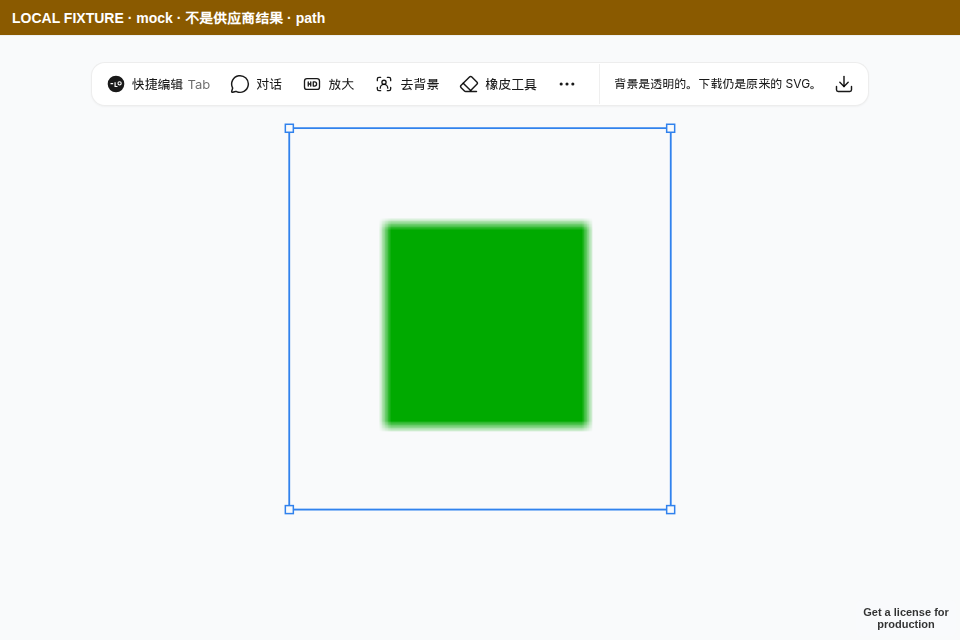
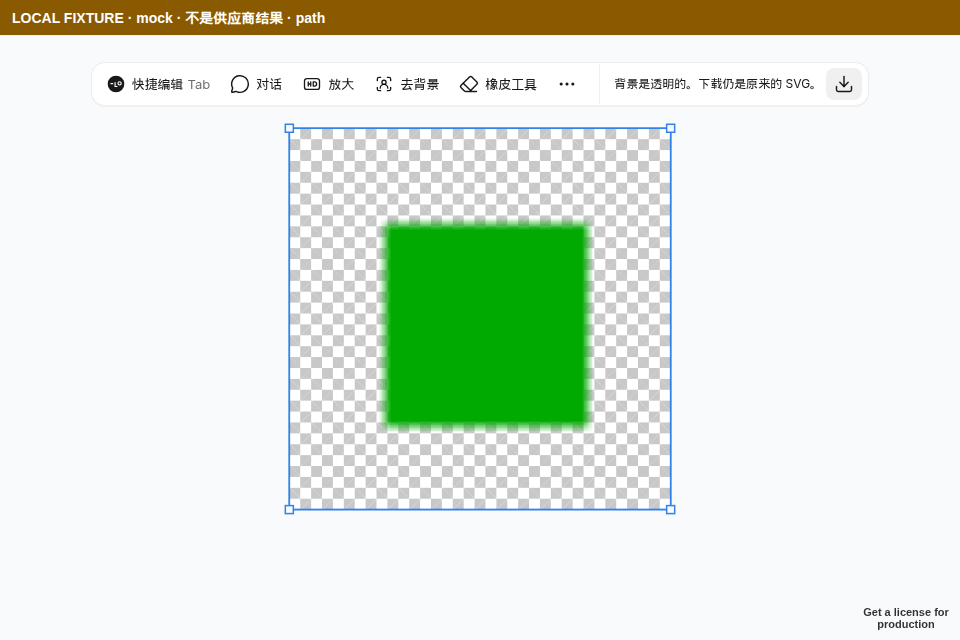
fix(#826): show SVG failure placeholder and a display-only checker
The failed canvas no longer paints the gray block with a black corner.
Transparent previews sit on a checkerboard that is not written into the
original SVG download.

Changed region(s): [[0.2812, 0.1875, 0.7188, 0.8125]]

diff --git a/src/shapes/SvgImageShape.tsx b/src/shapes/SvgImageShape.tsx
@@ -1,0 +1,45 @@
+import { HTMLContainer, ImageShapeUtil, type TLImageShape } from 'tldraw'
+
+import { t } from '../i18n'
+
+function svgMeta(asset: { meta?: Record<string, unknown> } | null | undefined) {
+  const meta = asset?.meta
+  return {
+    state: typeof meta?.svgState === 'string' ? meta.svgState : '',
+    message: typeof meta?.svgMessage === 'string' ? meta.svgMessage : '',
+  }
+}
+
+/** Canvas face for an admitted SVG. The download stays the original file. */
+export class ComfyImageShapeUtil extends ImageShapeUtil {
+  override component(shape: TLImageShape) {
+    const asset = shape.props.assetId ? this.editor.getAsset(shape.props.assetId) : null
+    const { state, message } = svgMeta(asset)
+    if (state === 'preview_failed') {
+      return (
+        <HTMLContainer
+          id={shape.id}
+          className="ca-svg-fail"
+          data-testid="svg-preview-failed"
+          style={{ width: shape.props.w, height: shape.props.h, overflow: 'hidden' }}
+        >
+          <div className="ca-svg-fail__body">
+            <svg className="ca-svg-fail__icon" viewBox="0 0 24 24" aria-hidden="true">
+              <rect x="3.5" y="5" width="17" height="14" rx="2" fill="none" stroke="currentColor" strokeWidth="1.6" />
+              <path d="M7 15.5l3.2-3.2 2.3 2.3 2-2L18 16" fill="none" stroke="currentColor" strokeWidth="1.6" />
+              <path d="M5 5l14 14" fill="none" stroke="currentColor" strokeWidth="1.6" />
+            </svg>
+            <span className="ca-svg-fail__text">{message || t('wsErr.svgPreviewFailed')}</span>
+          </div>
+        </HTMLContainer>
+      )
+    }
+    const image = super.component(shape)
+    if (state !== 'transparent') return image
+    return (
+      <div className="ca-svg-checker" data-testid="svg-checker" style={{ width: shape.props.w, height: shape.props.h }}>
+        {image}
+      </div>
+    )
+  }
+}

diff --git a/tests/js/svg826/main.tsx b/tests/js/svg826/main.tsx
@@ -3,6 +3,7 @@ import { createRoot } from 'react-dom/client'
 import { AssetRecordType, Tldraw, createShapeId, type Editor, type TLComponents } from 'tldraw'
 import { ImageToolbar } from '../../../src/ui/ImageToolbar'
 import { GENERATOR, GENERATOR_DEFAULTS, GeneratorShapeUtil } from '../../../src/shapes/GeneratorShape'
+import { ComfyImageShapeUtil } from '../../../src/shapes/SvgImageShape'
 import { resultsAtom } from '../../../src/jobs'
 import 'tldraw/tldraw.css'
 import '../../../src/styles/base.css'
@@ -23,6 +24,8 @@ const components: TLComponents = {
 
 function place(editor: Editor) {
   const file = new URL(state === 'failed' ? 'fail.png' : 'path.png', location.href).href
+  const original = new URL(state === 'failed' ? 'text_only.svg' : 'path.svg', location.href).href
+  const originalName = state === 'failed' ? 'text_only.svg' : 'path.svg'
   if (state === 'rejected') {
     const id = createShapeId()
     editor.createShape({
@@ -52,8 +55,8 @@ function place(editor: Editor) {
     meta: {
       localFixture: true,
       inlineSvg: false,
-      svgDownload: 'logo.svg',
-      svgName: 'logo.svg',
+      svgDownload: original,
+      svgName: originalName,
       svgState: failed ? 'preview_failed' : 'transparent',
       svgMessage: t('wsErr.svgPreviewFailed'),
     },
@@ -79,7 +82,7 @@ export async function mount() {
   frame.className = 'ca-fixture-frame'
   root.append(frame)
   createRoot(frame).render(
-    <Tldraw shapeUtils={[GeneratorShapeUtil]} components={components} onMount={place}>
+    <Tldraw shapeUtils={[ComfyImageShapeUtil, GeneratorShapeUtil]} components={components} onMount={place}>
       <ImageToolbar onError={() => {}} />
     </Tldraw>,
   )

diff --git a/src/App.tsx b/src/App.tsx
@@ -28,6 +28,7 @@ import { VectorShapeUtil, VectorTool } from './shapes/VectorShape'
 import { ArtboardShapeUtil } from './shapes/ArtboardShape'
 import { GeneratorShapeUtil } from './shapes/GeneratorShape'
 import { MockupShapeUtil } from './shapes/MockupShape'
+import { ComfyImageShapeUtil } from './shapes/SvgImageShape'
 import { HoverVideoShapeUtil } from './shapes/VideoShape'
 import { AdjustPanel } from './ui/AdjustPanel'
 import { AgentPanel, chatViewAtom, type ChatView } from './ui/AgentPanel'
@@ -96,7 +97,7 @@ import { uuid } from './id'
 const CHANNEL = 'comfyart-projects'
 const TAB = uuid()
 const assetUrls = getAssetUrlsByImport()
-const shapeUtils = [ArtboardShapeUtil, GeneratorShapeUtil, CommentShapeUtil, DoodleShapeUtil, TextShapeUtil, VectorShapeUtil, LottieShapeUtil, ModelShapeUtil, HtmlShapeUtil, AudioShapeUtil, MockupShapeUtil, GenBlockShapeUtil, QrShapeUtil, HoverVideoShapeUtil]
+const shapeUtils = [ComfyImageShapeUtil, ArtboardShapeUtil, GeneratorShapeUtil, CommentShapeUtil, DoodleShapeUtil, TextShapeUtil, VectorShapeUtil, LottieShapeUtil, ModelShapeUtil, HtmlShapeUtil, AudioShapeUtil, MockupShapeUtil, GenBlockShapeUtil, QrShapeUtil, HoverVideoShapeUtil]
 const tools = [CommentTool, DoodleTool, TextTool, VectorTool, PenTool]
 const getShapeVisibility = (shape: TLShape) => (shape.meta.hidden ? 'hidden' as const : 'inherit' as const)
 

diff --git a/src/styles/canvas.css b/src/styles/canvas.css
@@ -6,6 +6,37 @@
   color: var(--ca-empty-icon);
   pointer-events: all;
 }
+/* #826: checker is a display layer under a transparent PNG. It is not part of the SVG download. */
+.ca-svg-checker {
+  position: relative;
+  overflow: hidden;
+  background-color: #fff;
+  background-image:
+    linear-gradient(45deg, #c8c8c8 25%, transparent 25%),
+    linear-gradient(-45deg, #c8c8c8 25%, transparent 25%),
+    linear-gradient(45deg, transparent 75%, #c8c8c8 75%),
+    linear-gradient(-45deg, transparent 75%, #c8c8c8 75%);
+  background-size: 16px 16px;
+  background-position: 0 0, 0 8px, 8px -8px, -8px 0;
+}
+.ca-svg-fail {
+  display: flex;
+  align-items: center;
+  justify-content: center;
+  background: #f4f4f5;
+  color: #3f3f46;
+}
+.ca-svg-fail__body {
+  display: flex;
+  flex-direction: column;
+  align-items: center;
+  justify-content: center;
+  gap: 8px;
+  max-width: 78%;
+  text-align: center;
+}
+.ca-svg-fail__icon { width: 36px; height: 36px; }
+.ca-svg-fail__text { font: 500 13px/18px var(--ca-font, sans-serif); }
 .ca-gen-card__icon { display: flex; width: 22%; max-width: 96px; aspect-ratio: 1; }
 .ca-gen-card { position: relative; }
 .ca-gen-card__error a { color: inherit; text-decoration: underline; pointer-events: all; cursor: pointer; }

diff --git a/tests/test_svg826_canvas_tip.py b/tests/test_svg826_canvas_tip.py
@@ -3,6 +3,7 @@
 The page is the real Tldraw canvas, ImageToolbar, and generator card.
 The banner only labels the harness. Screenshots are LOCAL FIXTURE evidence.
 """
+import hashlib
 import importlib.util
 import os
 import subprocess
@@ -12,6 +13,7 @@ import urllib.request
 from pathlib import Path
 
 import pytest
+from PIL import Image
 
 ROOT = Path(__file__).resolve().parents[1]
 HERE = ROOT / "tests" / "js" / "svg826"
@@ -41,7 +43,8 @@ def fixture_page():
     assert rejected.status == "rejected" and rejected.download is None
     (public / "path.png").write_bytes(path.preview_png)
     (public / "fail.png").write_bytes(failed.preview_png)
-    (public / "logo.svg").write_bytes(failed.download)
+    (public / "path.svg").write_bytes((fix / "path.svg").read_bytes())
+    (public / "text_only.svg").write_bytes((fix / "text_only.svg").read_bytes())
     log = public / "vite.log"
     proc = subprocess.Popen(
         [str(ROOT / "node_modules" / ".bin" / "vite"), "--config", str(HERE / "vite.config.ts")],
@@ -91,26 +94,58 @@ def _shot(page, name: str) -> None:
     page.screenshot(path=str(ART / name), full_page=False)
 
 
+def _save_download(page, button_name: str, expected_name: str, expected: bytes) -> None:
+    with page.expect_download() as caught:
+        page.locator(".ca-toolbar--image").get_by_role("button", name=button_name).last.click()
+    download = caught.value
+    assert download.suggested_filename == expected_name
+    got = Path(download.path()).read_bytes()
+    assert got == expected
+    assert hashlib.sha256(got).hexdigest() == hashlib.sha256(expected).hexdigest()
+
+
 def test_three_product_states_are_local_fixtures(browser, fixture_page):
+    ART.mkdir(parents=True, exist_ok=True)
     page = browser.new_page(viewport={"width": 960, "height": 640})
     errors = []
     page.on("pageerror", lambda exc: errors.append(str(exc)))
+    fix = ROOT / "tests" / "fixtures" / "svg826"
+    path_svg = (fix / "path.svg").read_bytes()
+    text_svg = (fix / "text_only.svg").read_bytes()
 
     page.goto(f"{fixture_page}/?state=path")
     page.wait_for_function("() => window.__svg826Ready === true", timeout=30000)
     page.wait_for_selector(".ca-toolbar--image", timeout=15000)
-    page.wait_for_selector("img", timeout=15000)
+    page.wait_for_selector("[data-testid=svg-checker] img", timeout=15000)
     assert "LOCAL FIXTURE" in page.locator(".ca-fixture-banner").inner_text()
     assert page.locator(".ca-toolbar--image").get_by_role("button", name="下载").count() >= 1
     assert page.locator(".ca-gen-card__error").count() == 0
+    assert page.locator("[data-testid=svg-preview-failed]").count() == 0
+    checker = ART / "01-checker-face.png"
+    page.locator("[data-testid=svg-checker]").screenshot(path=str(checker))
+    face = Image.open(checker).convert("RGB")
+    corner, neighbor = face.getpixel((4, 4)), face.getpixel((12, 4))
+    assert corner != neighbor
+    assert corner != (0, 170, 0) and neighbor != (0, 170, 0)
+    mid = face.getpixel((face.size[0] // 2, face.size[1] // 2))
+    assert mid[1] > 120 and mid[0] < 90
+    _save_download(page, "下载", "path.svg", path_svg)
     _shot(page, "01-path-preview.png")
 
     page.goto(f"{fixture_page}/?state=failed")
     page.wait_for_function("() => window.__svg826Ready === true", timeout=30000)
     page.wait_for_selector(".ca-toolbar--image", timeout=15000)
-    body = page.locator("body").inner_text()
-    assert "预览失败，原 SVG 仍可下载。" in body
+    placeholder = page.locator("[data-testid=svg-preview-failed]")
+    placeholder.wait_for()
+    assert placeholder.locator("img").count() == 0
+    assert "预览失败，原 SVG 仍可下载。" in placeholder.inner_text()
     assert page.locator(".ca-toolbar--image").get_by_role("button", name="预览失败，原 SVG 仍可下载。").count() >= 1
+    failed_face = ART / "02-fail-face.png"
+    placeholder.screenshot(path=str(failed_face))
+    blank = Image.open(failed_face).convert("RGB")
+    assert blank.getpixel((2, 2))[0] > 200
+    assert blank.getpixel((2, 2)) != (0, 0, 0)
+    _save_download(page, "预览失败，原 SVG 仍可下载。", "text_only.svg", text_svg)
     _shot(page, "02-preview-failed-download.png")
 
     page.goto(f"{fixture_page}/?state=rejected")
@@ -119,6 +154,8 @@ def test_three_product_states_are_local_fixtures(browser, fixture_page):
     assert "不会提供下载" in page.locator(".ca-gen-card__error").inner_text()
     assert page.locator(".ca-toolbar--image").count() == 0
     assert page.locator("a[download]").count() == 0
+    assert page.locator("[data-testid=svg-preview-failed]").count() == 0
+    assert page.locator("[data-testid=svg-checker]").count() == 0
     _shot(page, "03-rejected-no-download.png")
 
     page.close()

diff --git a/tests/test_svg_826.py b/tests/test_svg_826.py
@@ -4,6 +4,7 @@ Mock and local raster only. No WaveSpeed submit, no price-API call, no paid smok
 Medium 1k at $0.07 is the existing still cell $0.05 plus $0.02, not a new price check.
 """
 import asyncio
+import hashlib
 import io
 import json
 import os
@@ -99,8 +100,21 @@ def test_safe_undrawable_preview_failure_still_downloads():
     assert verdict.download == raw and verdict.kind == ""
     assert "预览失败" in verdict.message_zh and "downloaded" in verdict.message_en
     im = _png(verdict)
-    assert im.getpixel((0, 0))[:3] == (0, 0, 0)
-    assert im.getpixel((16, 16))[:3] == (128, 128, 128)
+    assert im.size == (8, 8)
+    assert all(im.getpixel((x, y))[3] == 0 for x in range(im.size[0]) for y in range(im.size[1]))
+
+
+def test_admitted_download_hash_matches_the_original_svg():
+    """The checkerboard is not part of the file. A rejected file has no download."""
+    for name in ("path.svg", "transparent.svg", "text_only.svg"):
+        raw = _load(name)
+        verdict = svg_image.admit(raw)
+        assert verdict.download is not None
+        assert verdict.download == raw
+        assert hashlib.sha256(verdict.download).hexdigest() == hashlib.sha256(raw).hexdigest()
+        assert b"checker" not in verdict.download and b"<script" not in verdict.download
+    refused = svg_image.admit(_load("script.svg"))
+    assert refused.download is None and refused.preview_png is None
 
 
 def test_path_preview_is_an_identifiable_png():

diff --git a/api/svg_raster.py b/api/svg_raster.py
@@ -562,10 +562,13 @@ def _png(im) -> bytes:
 
 
 def _failure_png() -> bytes:
-    from PIL import Image, ImageDraw
-    im = Image.new("RGBA", (32, 32), (128, 128, 128, 255))
-    ImageDraw.Draw(im).rectangle([0, 0, 3, 3], fill=(0, 0, 0, 255))
-    return _png(im)
+    """A PNG record with no opaque pixels. The canvas draws its own placeholder.
+
+    This bitmap is not a picture of the file. A gray field or a black block here
+    would look like a finished image, so every pixel stays transparent.
+    """
+    from PIL import Image
+    return _png(Image.new("RGBA", (8, 8), (0, 0, 0, 0)))
 
 
 def _pixels(im) -> str:

diff --git a/docs/qa/integrate-842-844/README.md b/docs/qa/integrate-842-844/README.md
@@ -32,13 +32,23 @@
 - `PYTHONPATH=/agent/repos python3 -m pytest -q tests/test_svg_826.py tests/test_gpt_image_26_route.py tests/test_gpt_image_26_gif.py tests/test_flare_default.py tests/test_curated_models.py tests/test_plan_quote_235.py`：284 passed。
 - `PYTHONPATH=/agent/repos python3 -m pytest -q tests/test_svg826_canvas_tip.py`：1 passed。三张图由这次重跑生成。
 
-下面三张图是 **LOCAL FIXTURE / mock**。页顶棕条写着不是供应商结果。它们是真实 Tldraw、`ImageToolbar`、生成卡片，像素来自本地 `admit()`。这不是部署实证，也不是供应商出图。
+下面三张图是后来的设计复验重跑，不是上面那次合并测试的旧图，也不是 #844 签字头 `b00d0b3a38932456f0f43f05ec3262f895117be6`。它们仍是 **LOCAL FIXTURE / mock**：真实 Tldraw、`ComfyImageShapeUtil`、`ImageToolbar`、生成卡片，像素来自本地 `admit()`。不是供应商出图，也不是部署实证。
 
 | 图 | 状态 |
 | --- | --- |
-| `01-path-preview.png` | 正常 path，可辨 PNG，可下载 |
-| `02-preview-failed-download.png` | 安全但画不出（纯 text），可下载 |
-| `03-rejected-no-download.png` | 脚本拒绝，无下载 |
+| `01-path-preview.png` | 透明 path 铺在棋盘上，棋盘只在显示层。下载文件名 `path.svg`，字节和 SHA-256 与已准入原件一致 |
+| `02-preview-failed-download.png` | 画布居中失败图标和「预览失败，原 SVG 仍可下载。」没有灰底黑块。下载是 `text_only.svg` 原件 |
+| `03-rejected-no-download.png` | 脚本拒绝，没有下载，也没有失败占位图 |
+
+## 设计复验（#844 评论，追加在本候选上）
+
+评论指出两处：失败画布是灰底加左上黑块；透明预览看不出透明。修复在本分支追加，输入祖先仍是 `69223e84763a9e02d24e87281da3e005d50a0842` 和 `b00d0b3a38932456f0f43f05ec3262f895117be6`。
+
+- 失败占位由 `ComfyImageShapeUtil` 绘制，不再把带黑块的预览 PNG 画上画布。存档用的失败 PNG 改为全透明，没有不透明像素。
+- 棋盘是 `.ca-svg-checker` 的 CSS。预览 PNG 四角仍是透明，SVG 下载字节不含棋盘。
+- 安全拒绝仍无下载，也不会出现失败占位。
+
+这次在修复后的树上重跑：`npx tsc --noEmit` 退出码 0；`tests/test_svg_826.py`、`tests/test_gpt_image_26_route.py`、`tests/test_gpt_image_26_gif.py`、`tests/test_flare_default.py`、`tests/test_curated_models.py`、`tests/test_plan_quote_235.py` 共 285 passed；`tests/test_svg826_canvas_tip.py` 1 passed。#842 上单独的 67 passed 只对应 `69223e84`，不代替这次集成重验。
 
 ## 这次没有做
 
